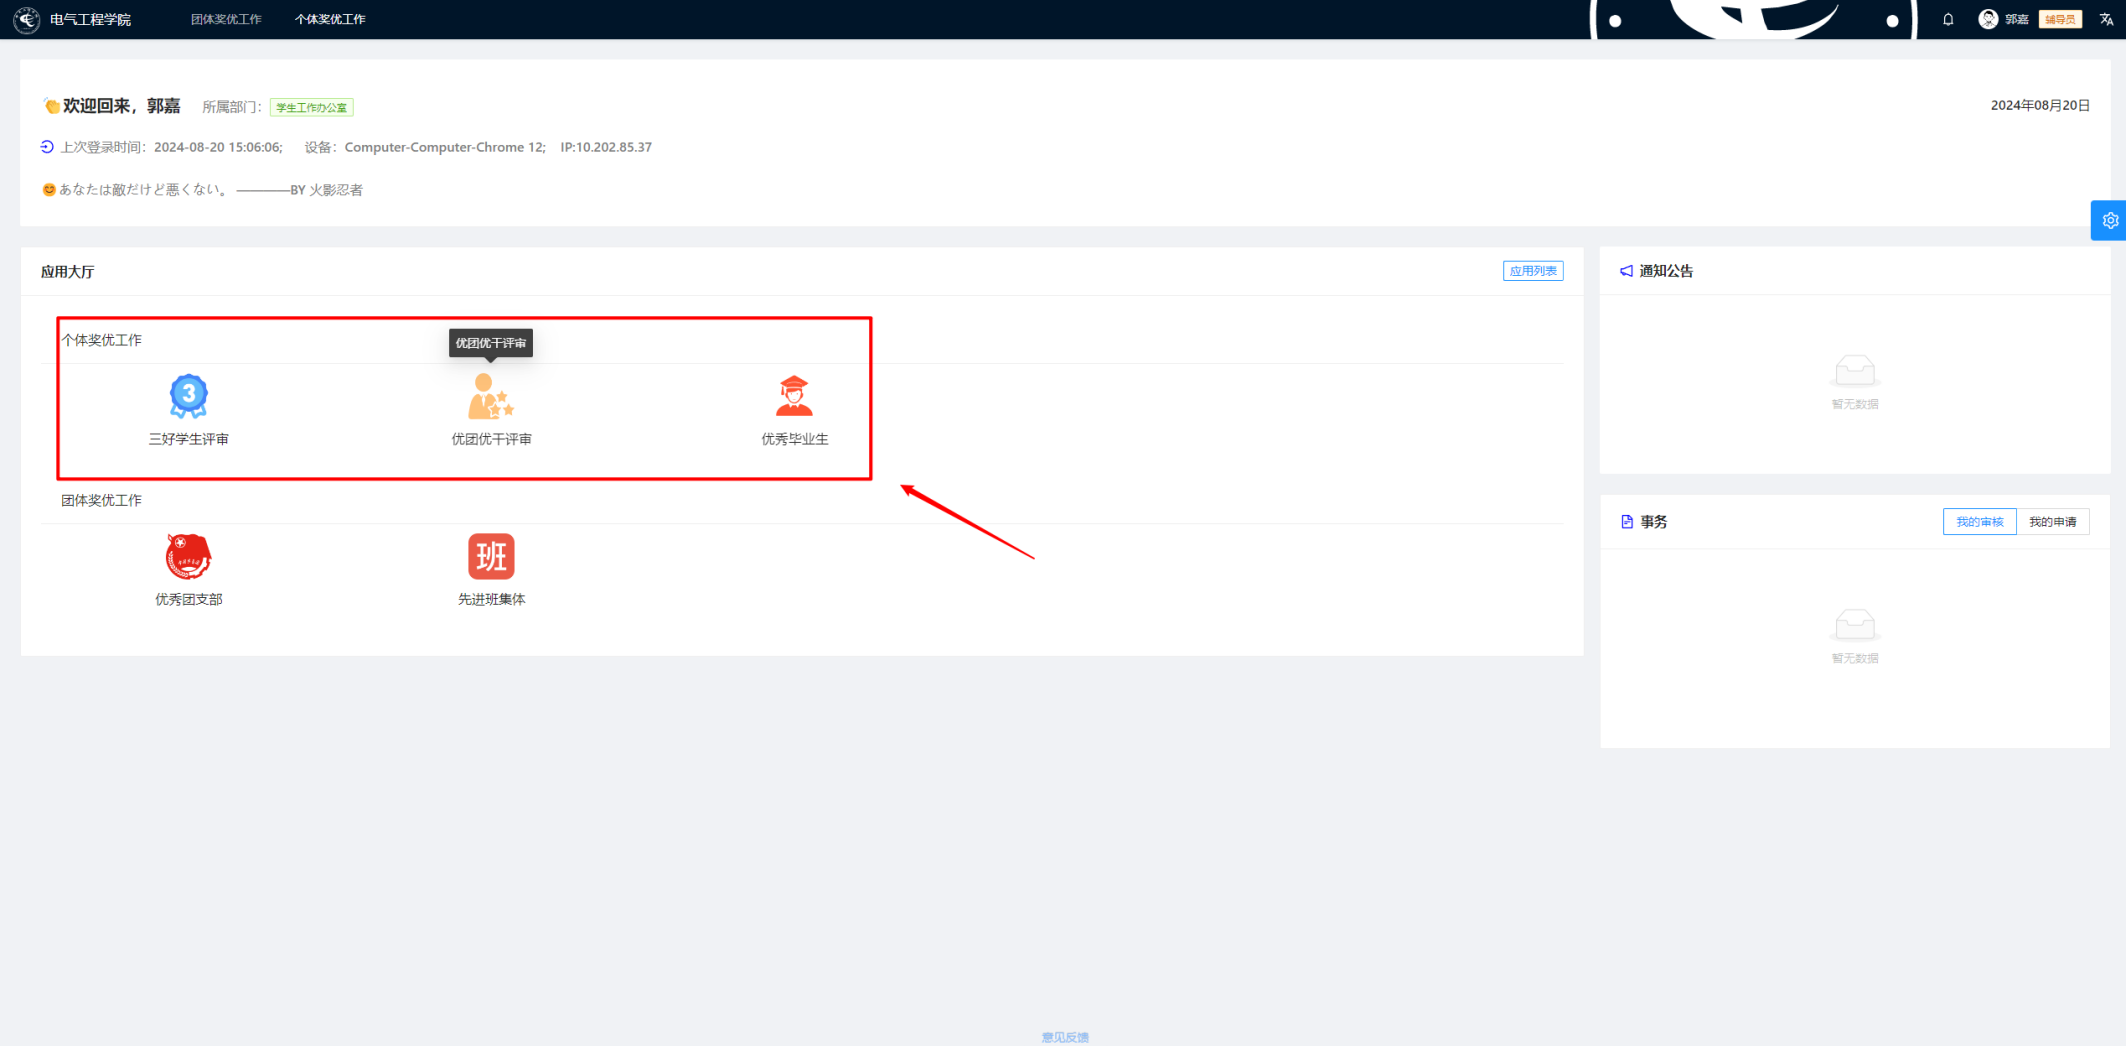
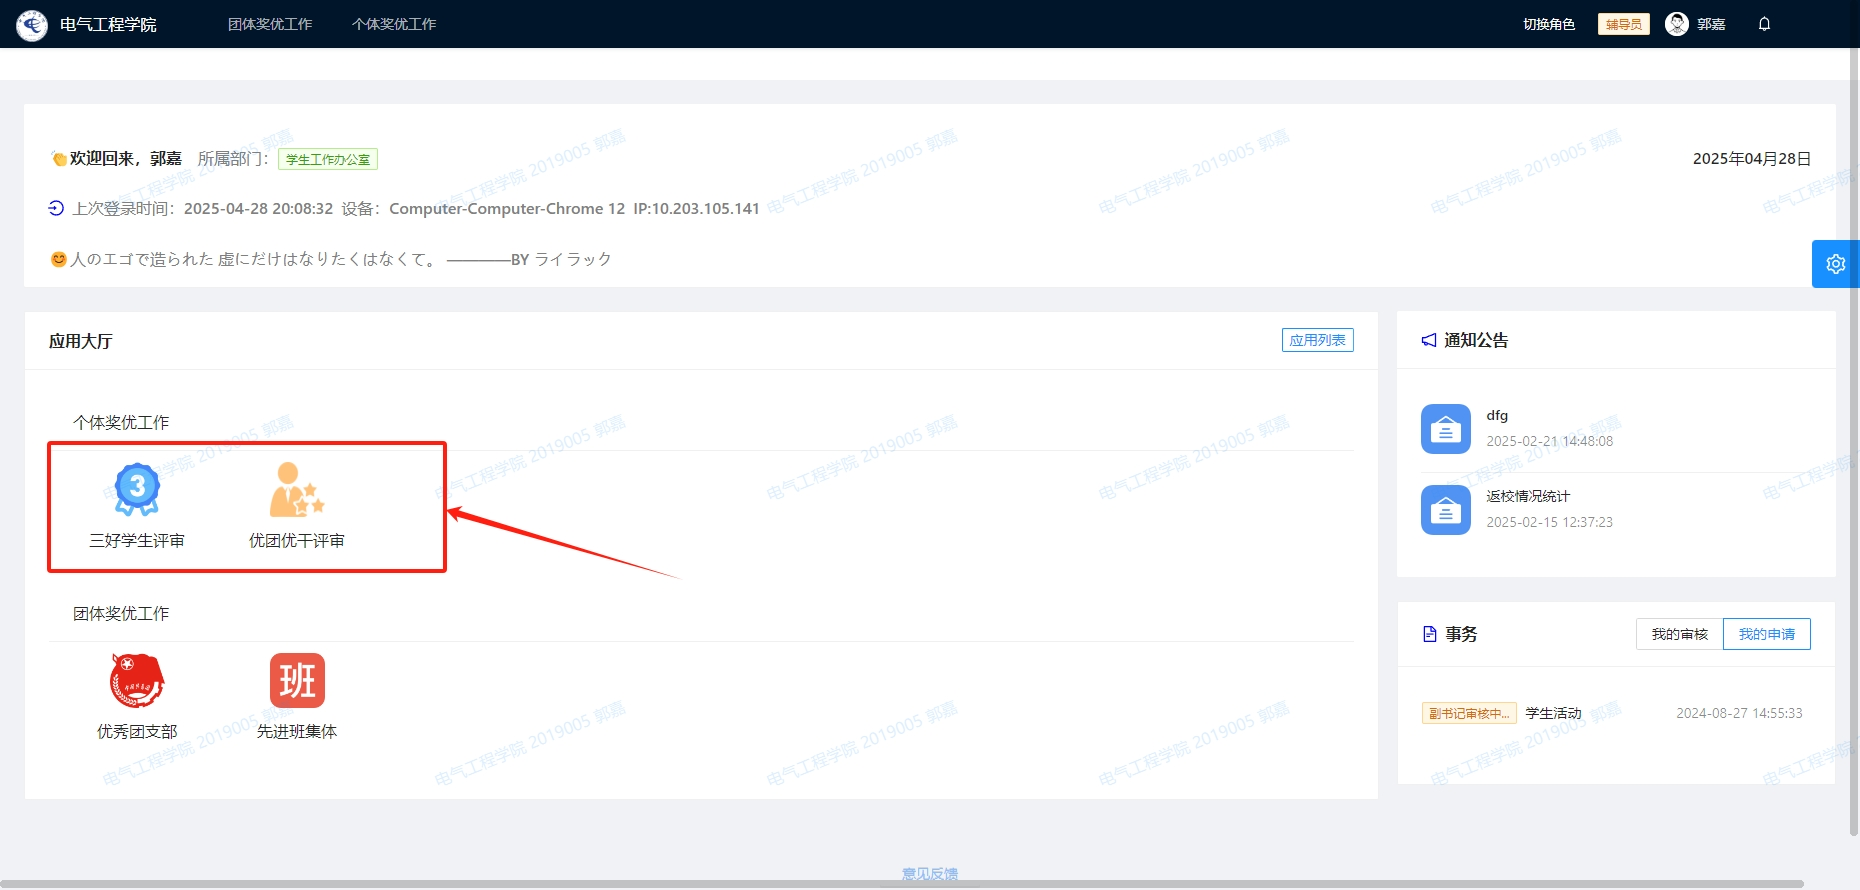
deploy

diff --git a/docs/notes/docs/2.功能手册/5.奖优育人.md b/docs/notes/docs/2.功能手册/5.奖优育人.md
@@ -1,26 +1,22 @@
 ## 奖优育人
 
-		智慧校园系统的奖优育人模块包括团体奖优工作和个人奖优工作。
+ 智慧校园系统的奖优育人模块包括团体奖优工作和个人奖优工作。
 
 <img src="https://hebuta219.github.io/images/image-20240820193238324.png" alt="image-20240820193238324" style="zoom:50%;" />
 
+### 1\_个体奖优工作
 
-
-### 1_个体奖优工作
-
-		个体奖优工作包括三好学生评审、优团优干评审及优秀毕业生三个模块。
+ 个体奖优工作包括三好学生评审和优团优干评审两个模块。
 
 ![image-20240820163440739](https://hebuta219.github.io/images/image-20240820163440739.png)
 
-#### 1.1_三好学生评审
+#### 1.1\_三好学生评审
 
-		三好学生评审模块包括本科生视角、辅导员视角以及副书记视角，流程为本科生申请——》辅导员审核——》副书记审核
-
-
+ 三好学生评审模块包括本科生视角、辅导员视角以及副书记视角，流程为本科生申请——》辅导员审核——》副书记审核
 
 **（1）本科生视角**
 
-		本科生可以在申请界面下载申请材料、查看自己的申请列表以及创建新的申请。
+ 本科生可以在申请界面下载申请材料、查看自己的申请列表以及创建新的申请。
 
 ![image-20240820163731622](https://hebuta219.github.io/images/image-20240820163731622.png)
 
@@ -30,127 +26,118 @@
 
 **（2）辅导员视角**
 
-		辅导员视角只能看到该辅导员所带班级学生的申请列表以及申请详情
+ 辅导员视角只能看到该辅导员所带班级学生的申请列表以及申请详情
 
 ![image-20240820164006366](https://hebuta219.github.io/images/image-20240820164006366.png)
 
-		辅导员页面点击查看按钮即可进去审核界面
+ 辅导员页面点击查看按钮即可进去审核界面
 
 ![image-20240820164025046](https://hebuta219.github.io/images/image-20240820164025046.png)
 
-		查看审批进度详情
+ 查看审批进度详情
 
 ![image-20240820164036174](https://hebuta219.github.io/images/image-20240820164036174.png)
 
 **（3）副书记视角**
 
-		在副书记视角下可以看到本学院所有班级学生的申请列表以及申请详情。
+ 在副书记视角下可以看到本学院所有班级学生的申请列表以及申请详情。
 
 ![image-20240820164144845](https://hebuta219.github.io/images/image-20240820164144845.png)
 
-#### 1.2_优团优干评审
+#### 1.2\_优团优干评审
 
-		优团优干评审模块包括本科生视角、辅导员视角以及副书记视角，流程为本科生申请——》班级团支书审核——》辅导员审核
-
-
+ 优团优干评审模块包括本科生视角、辅导员视角以及副书记视角，流程为本科生申请——》班级团支书审核——》辅导员审核
 
 **（1）本科生视角**
 
-		本科生可以在申请界面下载申请材料、查看自己的申请列表以及创建新的申请。
+ 本科生可以在申请界面下载申请材料、查看自己的申请列表以及创建新的申请。
 
 ![Snipaste_2024-08-21_10-56-06](https://hebuta219.github.io/images/Snipaste_2024-08-21_10-56-06.png)
 
-		点击申请优秀学生干部申请按钮后
+ 点击申请优秀学生干部申请按钮后
 
 ![Snipaste_2024-08-21_10-58-16](https://hebuta219.github.io/images/Snipaste_2024-08-21_10-58-16.png)
 
 **（2）班级团支书视角**
 
-		班级团支书视角只能看到该辅导员所带班级学生的申请列表以及申请详情
+ 班级团支书视角只能看到该辅导员所带班级学生的申请列表以及申请详情
 
 ![Snipaste_2024-08-21_11-17-29](https://hebuta219.github.io/images/Snipaste_2024-08-21_11-17-29.png)
 
 **（3）辅导员视角**
 
-		辅导员视角只能看到该辅导员所带班级学生的申请列表以及申请详情
+ 辅导员视角只能看到该辅导员所带班级学生的申请列表以及申请详情
 
 ![Snipaste_2024-08-21_11-06-05](https://hebuta219.github.io/images/Snipaste_2024-08-21_11-06-05.png)
 
-		学生基本信息弹窗
+ 学生基本信息弹窗
 
 ![Snipaste_2024-08-21_11-07-48](https://hebuta219.github.io/images/Snipaste_2024-08-21_11-07-48.png)
 
-		辅导员页面点击查看按钮即可进去审核界面
+ 辅导员页面点击查看按钮即可进去审核界面
 
 ![Snipaste_2024-08-21_11-09-40](https://hebuta219.github.io/images/Snipaste_2024-08-21_11-09-40.png)
 
-		查看审批进度详情
+ 查看审批进度详情
 
 ![Snipaste_2024-08-21_11-11-19](https://hebuta219.github.io/images/Snipaste_2024-08-21_11-11-19.png)
 
+### 2\_团体奖优工作
 
-
-### 2_团体奖优工作
-
-		团体奖优工作包括优秀团支部、先进班集体俩个模块。
+ 团体奖优工作包括优秀团支部、先进班集体俩个模块。
 
 ![Snipaste_2024-08-21_13-41-45](https://hebuta219.github.io/images/Snipaste_2024-08-21_13-41-45.png)
 
-#### 1.1_优秀团支部
+#### 1.1\_优秀团支部
 
-		优秀团支部评审模块包括班级团委视角、辅导员视角以及学院团委书记视角，流程为班级团委申请——》辅导员审核——》学院团委书记审核
-
-
+ 优秀团支部评审模块包括班级团委视角、辅导员视角以及学院团委书记视角，流程为班级团委申请——》辅导员审核——》学院团委书记审核
 
 **（1）班团委视角**
 
-		班团委可以在申请界面下载申请材料、查看自己的申请列表以及创建新的申请。
+ 班团委可以在申请界面下载申请材料、查看自己的申请列表以及创建新的申请。
 
 ![Snipaste_2024-08-21_13-49-02](https://hebuta219.github.io/images/Snipaste_2024-08-21_13-49-02.png)
 
-		点击申请申请按钮后
+ 点击申请申请按钮后
 
 ![Snipaste_2024-08-21_13-50-21](https://hebuta219.github.io/images/Snipaste_2024-08-21_13-50-21.png)**（2)辅导员视角**
 
-		辅导员视角只能看到该辅导员所带班级学生的申请列表以及申请详情
+ 辅导员视角只能看到该辅导员所带班级学生的申请列表以及申请详情
 
 ![Snipaste_2024-08-21_13-53-33](https://hebuta219.github.io/images/Snipaste_2024-08-21_13-53-33.png)
 
-		查看审批进度详情
+ 查看审批进度详情
 
 ![Snipaste_2024-08-21_13-55-19](https://hebuta219.github.io/images/Snipaste_2024-08-21_13-55-19.png)
 
 **（3）学院团委书记视角**
 
-		学院团委书记视角可以看到该院所有班级的申请列表以及申请详情
+ 学院团委书记视角可以看到该院所有班级的申请列表以及申请详情
 
 ![Snipaste_2024-08-21_13-57-41](https://hebuta219.github.io/images/Snipaste_2024-08-21_13-57-41.png)
 
-#### 1.2_先进班集体
+#### 1.2\_先进班集体
 
-		先进班集体评审模块包括班长视角、辅导员视角以及学院团委书记视角，流程为班长申请——》辅导员审核——》学院书记审核
-
-
+ 先进班集体评审模块包括班长视角、辅导员视角以及学院团委书记视角，流程为班长申请——》辅导员审核——》学院书记审核
 
 **（1）班长视角**
 
-		班长可以在申请界面下载申请材料、查看自己的申请列表以及创建新的申请。
+ 班长可以在申请界面下载申请材料、查看自己的申请列表以及创建新的申请。
 
 ![Snipaste_2024-08-21_14-02-39](https://hebuta219.github.io/images/Snipaste_2024-08-21_14-02-39.png)
 
-		点击申请申请按钮后
+ 点击申请申请按钮后
 
 ![Snipaste_2024-08-21_14-04-16](https://hebuta219.github.io/images/Snipaste_2024-08-21_14-04-16.png)
 
 **（2）辅导员视角**
 
-		辅导员视角只能看到该辅导员所带班级学生的申请列表以及申请详情
+ 辅导员视角只能看到该辅导员所带班级学生的申请列表以及申请详情
 
 ![Snipaste_2024-08-21_14-06-36](https://hebuta219.github.io/images/Snipaste_2024-08-21_14-06-36.png)
 
 **（3）学院书记视角**
 
-		学院书记视角可以看到该院所有班级的申请列表以及申请详情
+ 学院书记视角可以看到该院所有班级的申请列表以及申请详情
 
 ![Snipaste_2024-08-21_14-10-27](https://hebuta219.github.io/images/Snipaste_2024-08-21_14-10-27.png)
-
